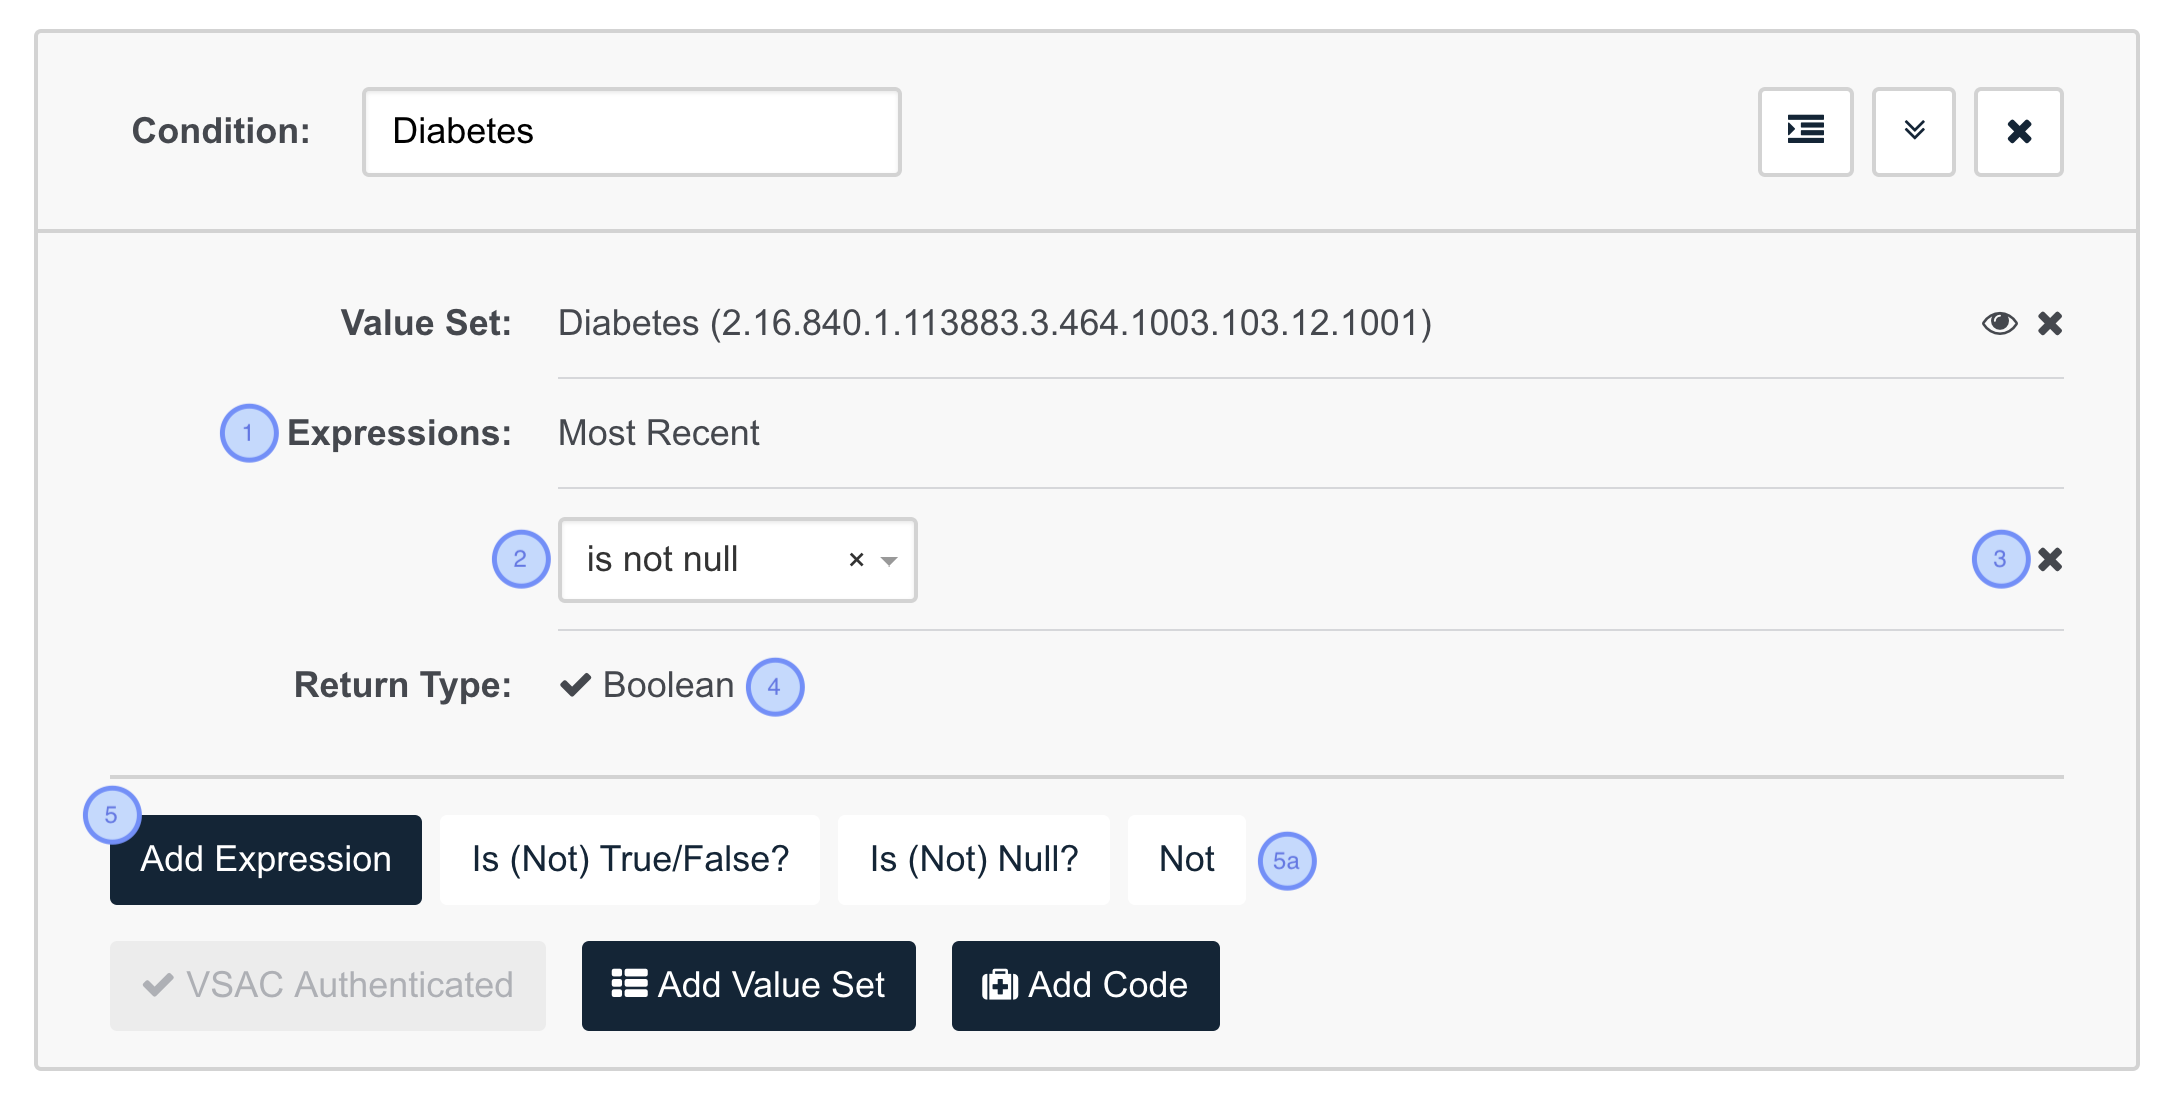
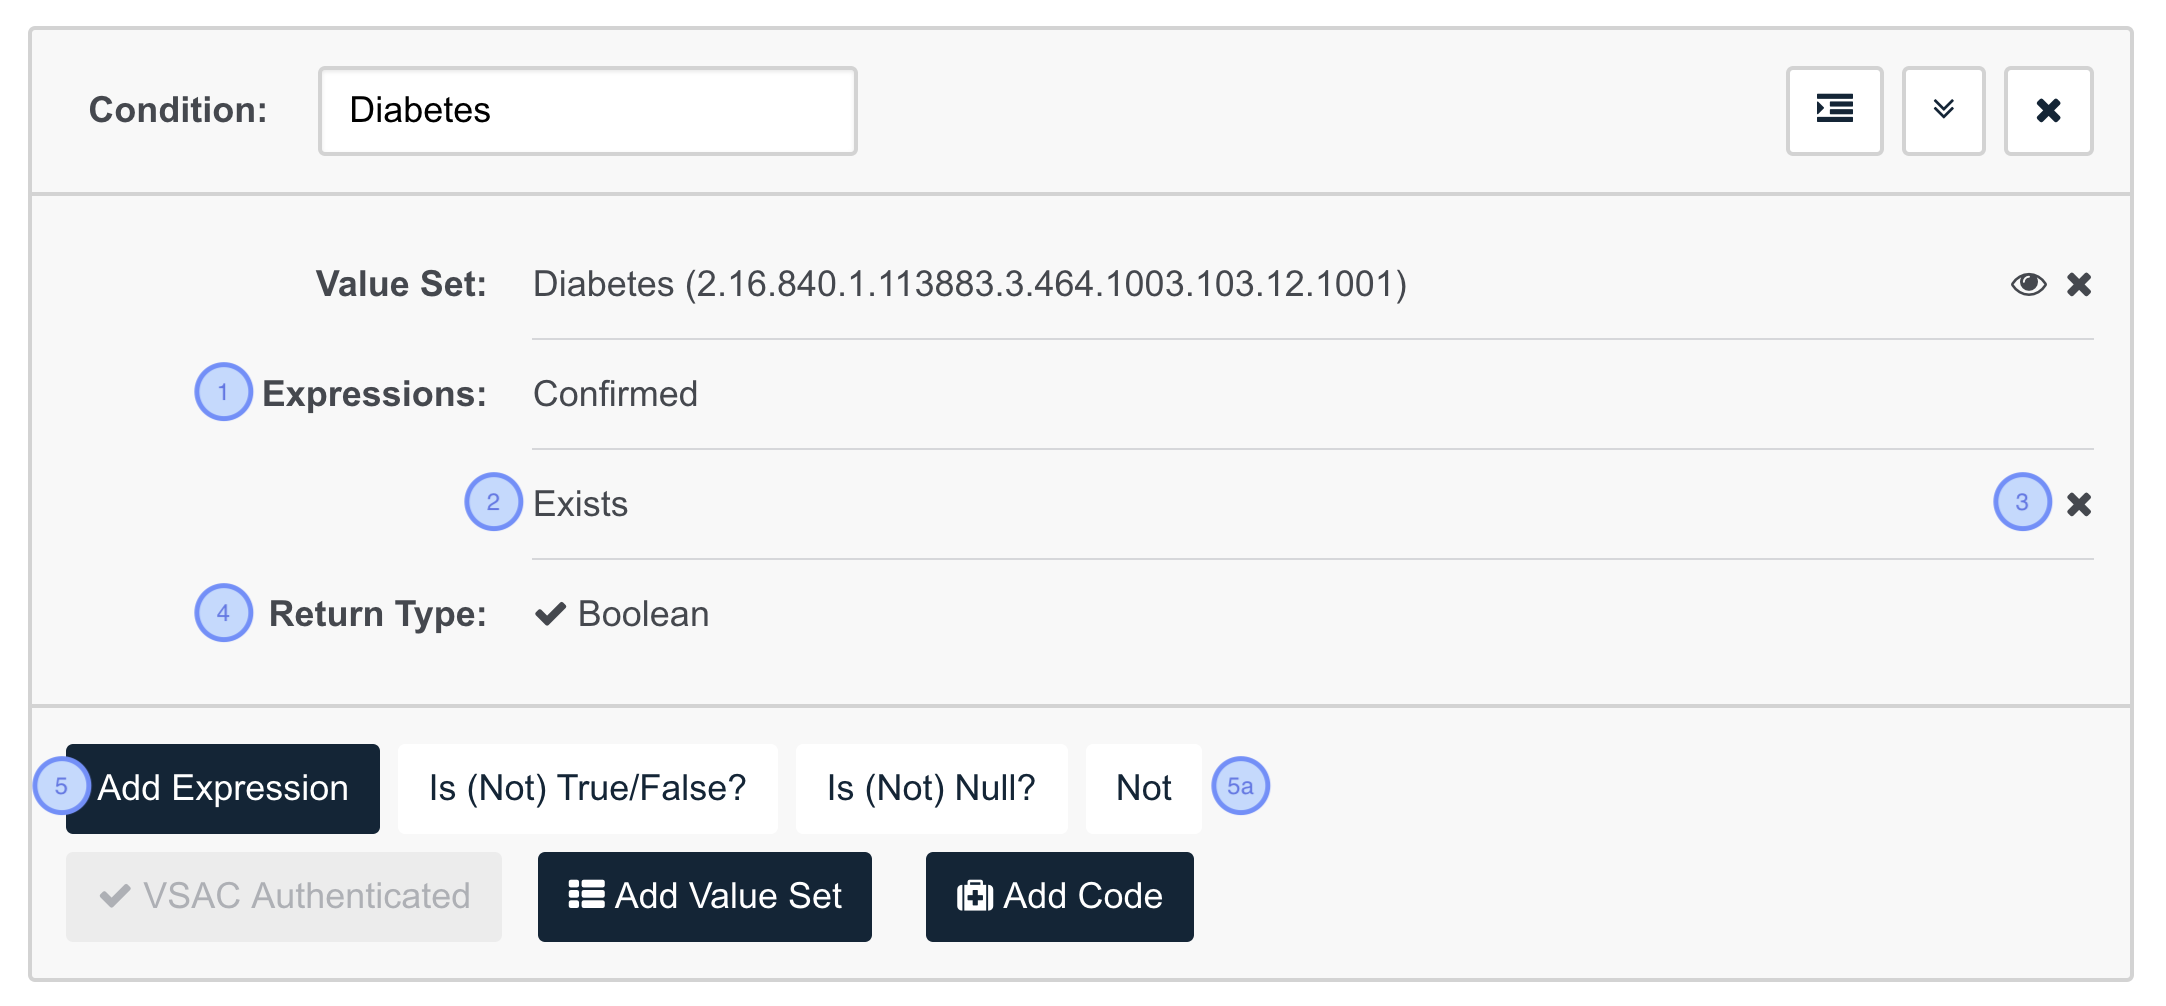
Minor updates to landing page and user guide

diff --git a/frontend/src/components/UserGuide.js b/frontend/src/components/UserGuide.js
@@ -2,6 +2,7 @@
 import React, { Component } from 'react';
 import tocbot from 'tocbot';
 import _ from 'lodash';
+import { onVisitExternalLink } from '../utils/handlers';
 
 function screenshotUrl(name) {
   return `${process.env.PUBLIC_URL}/assets/images/screenshots/${name}.png`;
@@ -58,8 +59,8 @@ export default class UserGuide extends Component {
 
             <p>
               The Clinical Decision Support (CDS) Authoring Tool is a web-based application aimed at simplifying the
-              creation of production-ready CQL code. The project is based on "concept templates" (e.g. gender, HDL
-              Cholesterol, etc.), which allow for additional clinical concepts to be included in the future. Concept
+              creation of production-ready CQL code. The project is based on "templates" (e.g. Condition, Observation,
+              etc.), which can have value sets or codes applied to narrow in on more specific concepts. Expression
               modifiers are included to allow for more flexible definitions (e.g. most recent, value comparisons, etc.).
             </p>
 
@@ -323,8 +324,12 @@ export default class UserGuide extends Component {
                   </li>
 
                   <li>
-                    Element types with a key icon require VSAC authentication to use. A user with a UMLS license
-                    may perform VSAC authentication using the credentials requested through this license.
+                    Element types with a key icon require authentication to use the National Library of Medicine's
+                    (NLM) Value Set Authority Center (VSAC) integration. Users may authenticate using their
+                    Unified Medical Language System (UMLS) credentials.  Users who do not have a UMLS account
+                    can <a target="_blank" rel="nofollow noopener noreferrer" onClick={onVisitExternalLink}
+                    href="https://uts.nlm.nih.gov//license.html">sign up</a> <i className="fa fa-external-link"></i> via
+                    NLM.
                   </li>
                 </ol>
 
@@ -386,7 +391,7 @@ export default class UserGuide extends Component {
 
                   <ol>
                     <li>
-                      This "VSAC Authenticated" displays to indicate successful authentication.
+                      The "VSAC Authenticated" label displays to indicate successful authentication.
                     </li>
 
                     <li>
@@ -623,12 +628,14 @@ export default class UserGuide extends Component {
                 <h3 id="Expressions">3.4 Expressions</h3>
 
                 <p>
-                  Expressions modify an Element to define or narrow its intent. Many Elements will start as a list, which if
-                  left as such, <em>will generate invalid CQL</em>. The user must ensure that the Return Type of every Element
-                  returns a "Boolean" value. To achieve this, the user can apply Expressions to narrow or filter the previous
-                  Expression further. For example, one could start with a list of Diabetes Conditions, then apply the "Most
-                  Recent" Expression to find the most recent condition in the list, then apply "Is (Not) Null?" to achieve a
-                  Boolean Return Type (pictured below).
+                  Expressions modify an Element to define or narrow its intent. Many Elements will start as a list,
+                  which if left as such, <em>will generate invalid CQL</em> when used in Inclusions, Exclusions, or
+                  Subpopulations. Since elements are used in boolean logic (e.g., and, or), the user must ensure that
+                  the Return Type of every Element returns a "Boolean" value (e.g., true or false). To achieve this,
+                  the user can apply Expressions to narrow or filter the previous Expression further. For example, one
+                  could start with a list of Diabetes Conditions, then apply the "Most Recent" Expression to find the
+                  most recent condition in the list, then apply "Is (Not) Null?" to achieve a Boolean Return Type
+                  (pictured below).
                 </p>
 
                 <p>
@@ -646,15 +653,14 @@ export default class UserGuide extends Component {
 
                 <ol>
                   <li>
-                    The "Expression" list shows all expressions applied to the element so far (in this example "Most Recent"
-                    and "Is (Not) Null?").
+                    The "Expression" list shows all expressions applied to the element so far (in this example "Confirmed"
+                    and "Exists").
                   </li>
 
                   <li>
                     The last Expression that has been applied will appear at the bottom of the Expression list, directly above
-                    the "Return Type" label. In this example, the last Expression is an "Is (Not) Null?" check. Note that this
-                    Expression has a field that needs to filled in (in this case, the value "is not null" from the dropdown).
-                    Separately, if an Expression is a comparison, is is acceptable to fill in one or both sides of the comparison.
+                    the "Return Type" label.  In this case, the "Exists" expression is used to determine if the list of
+                    Confirmed Diabetes Conditions has items or is empty.
                   </li>
 
                   <li>
@@ -928,13 +934,14 @@ export default class UserGuide extends Component {
                 <h3 id="Parameters">3.10 Parameters</h3>
 
                 <p>
-                  Parameters allow the user to create named, reusable values. They can be used to change the
-                  logic in an artifact in different implementations of the artifact. The naming of the Parameter should
-                  be readable and communicate its intent within the resulting CQL code. An example of this might be a
-                  Parameter called "GradeCRecommendationEnabled". One user might choose to accept this value as true, while
-                  another may prefer to set the GradeCRecommendation to false and not execute that part of the CQL code.
-                  Parameters are optional additions to the artifact. They can be used in building Inclusions, Exclusions,
-                  and Subpopulations, and can be used in Error Handling.
+                  Parameters allow the user to create named, reusable values that can be supplied by the CDS execution
+                  environment at run-time. Parameters can be defined with or without default values. The naming of the
+                  Parameter should be readable and communicate its intent within the resulting CQL code. An example of
+                  this might be a Parameter called "AllowGradeC" to indicate if grade C recommendation should be
+                  returned or not. It might default to "true", but individual implementations can choose to override it
+                  to "false" if they do not allow or want Grade C recommendations. Parameters are optional additions to
+                  the artifact. They can be used in building Inclusions, Exclusions, and Subpopulations, and can be
+                  used in Error Handling.
                 </p>
 
                 <p>
@@ -962,7 +969,7 @@ export default class UserGuide extends Component {
                   </li>
 
                   <li>
-                    Parameters can optionally have a value, assigned by the user via
+                    Parameters can optionally have a default value, assigned by the user via
                     the input method for the given selected type.
                   </li>
 

diff --git a/frontend/src/components/Landing.js b/frontend/src/components/Landing.js
@@ -43,24 +43,19 @@ export default () => (
       </p>
 
       <p>
-        The CDS Authoring Tool is currently under development and released as an alpha capability. Although the
-        development team strives to release bug-free code, alpha software typically exhibits minor bugs and other
+        The CDS Authoring Tool is currently under development and released as a beta capability. Although the
+        development team strives to release bug-free code, beta software typically exhibits minor bugs and other
         limitations that would not be expected in production level software. Users should be aware of the following
         known limitations in this release of the authoring tool:
       </p>
       <ul>
-        <li>a limited set of data elements, primarily focused on the cholesterol domain</li>
         <li>a limited set of logical capabilities, primarily focused on inclusion/exclusion logic</li>
         <li>support for only rule-based CDS, providing string-based recommendation statements</li>
-        <li>pre-selected value sets with no ability to change them</li>
-        <li>no automated integration with the CDS Connect repository</li>
       </ul>
       <p>
-        Given these limitations, the current version of the CDS Authoring Tool serves more as a proof-of-concept,
-        showing the promise of what CDS development might look like.  Future versions will address these limitations,
-        allowing more general CDS development across a variety of domains.  The CDS Connect team appreciates your <a
-        href="https://cds.ahrq.gov/contact-us" onClick={onVisitExternalForm}>feedback</a> and participation to help
-        shape the CDS Authoring Tool as it moves forward.
+        The CDS Connect team appreciates your <a href="https://cds.ahrq.gov/contact-us"
+        onClick={onVisitExternalForm}>feedback</a> and participation to help shape the CDS Authoring Tool as it moves
+        forward.
       </p>
     </div>
   </div>
